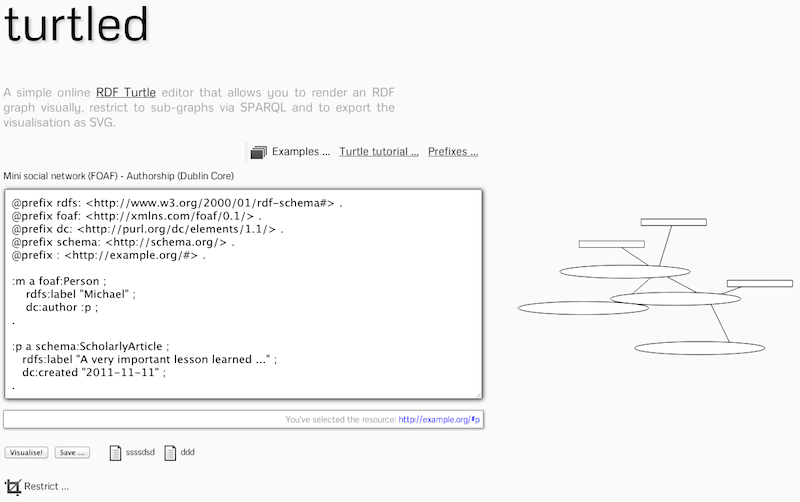
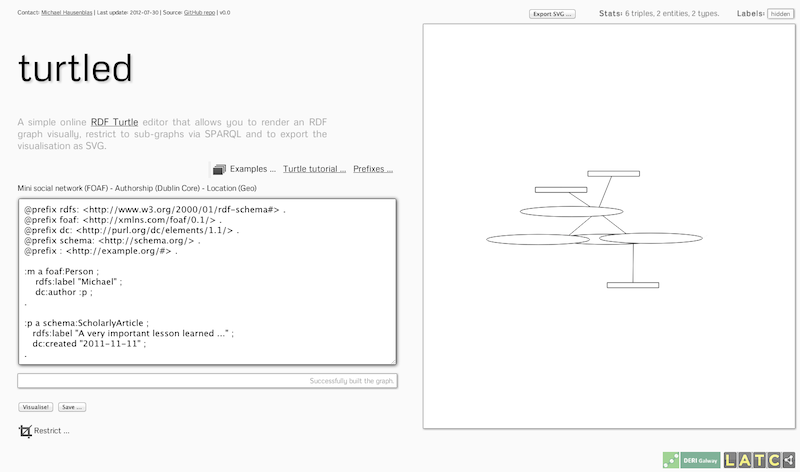
added graph stats and one more example

diff --git a/turtled.js b/turtled.js
@@ -4,36 +4,9 @@ var turtledstorage = window.localStorage;
 var MAX_ENTRIES = 10;
 var entrycntr = 0;
 var labelsvis = false;
-var gstats = { numtriples : 0 ,  numclasses : 0 };
+var gstats = { numtriples : 0, numentities : 0,  numclasses : 0 };
 
-var ex1 = '@prefix rdfs: <http://www.w3.org/2000/01/rdf-schema#> .\n\
-@prefix foaf: <http://xmlns.com/foaf/0.1/> .\n\
-@prefix : <http://example.org/#> .\n\
-\n\
-:m a foaf:Person ;\n\
-    rdfs:label "Michael" ;\n\
-    foaf:knows :r ;\n\
-.\n\
-\n\
-:r a foaf:Person ;\n\
-   rdfs:label "Richard" ;\n\
-.';
 
-var ex2 = '@prefix rdfs: <http://www.w3.org/2000/01/rdf-schema#> .\n\
-@prefix foaf: <http://xmlns.com/foaf/0.1/> .\n\
-@prefix dc: <http://purl.org/dc/elements/1.1/> .\n\
-@prefix schema: <http://schema.org/> .\n\
-@prefix : <http://example.org/#> .\n\
-\n\
-:m a foaf:Person ;\n\
-    rdfs:label "Michael" ;\n\
-    dc:author :p ;\n\
-.\n\
-\n\
-:p a schema:ScholarlyArticle ;\n\
-   rdfs:label "A very important lesson learned ..." ;\n\
-   dc:created "2011-11-11" ;\n\
-.';
 
 
 // node.data holds custom object passed to graph.addNode();
@@ -100,7 +73,7 @@ $(document).ready(function(){
 		$("#out").css('width', ($(window).width() - $("#main").width() - 100) * 0.95 );
 		$("#out").css('height', $(window).height() * 0.85 );
 	});
-	
+		
 	// list saved entries
 	buildEntryList();
 
@@ -129,9 +102,7 @@ $(document).ready(function(){
 					$("#out").show("");
 					renderGraph("out");
 					$("#out-support").show();
-					// @@TODO: count distinct subjects, classes, properties
-					$("#stats").html("<strong>Stats:</strong> Triples: " + gstats.numtriples );
-					
+					showStats(store);
 				}
 				else {
 					status("<span style='color:red'>Invalid RDF Turtle :(</span>" );
@@ -155,18 +126,17 @@ $(document).ready(function(){
 		});
 		$("#ex1").click(function(event){ $("#tinput").val(ex1); });
 		$("#ex2").click(function(event){ $("#tinput").val(ex2); });
+		$("#ex3").click(function(event){ $("#tinput").val(ex3); });
 
 		// handling output support (node/link lables rendering, SVG export)
 		$("#labels").click(function(event){
 			$("#out").html("");
 			if(labelsvis){
-				$("#labels").html("show labels");
-				$("#labels").css("border-left", "0px solid #fafafa");
+				$("#labels").html("hidden");
 				labelsvis = false;
 			}
 			else {
-				$("#labels").html("hide labels");
-				$("#labels").css("border-left", "5px solid #f0f0f0");
+				$("#labels").html("visible");
 				labelsvis = true;
 			}
 			renderGraph("out");
@@ -312,6 +282,23 @@ function renderGraph(containerID){
 	renderer.run();
 }
 
+function showStats(store){
+	// @@TODO: count distinct subjects, classes, properties
+		
+	$("#stats").html("<strong>Stats:</strong> " + gstats.numtriples + " triple(s)");
+
+	store.execute("SELECT (COUNT(DISTINCT ?class) AS ?classcount) { ?s a ?class . }", function(success, results){
+		gstats.numclasses = results[0].classcount.value;
+		store.execute("SELECT (COUNT(DISTINCT ?s) AS ?subjectcount) { ?s ?p ?o. }", function(success, results){
+			gstats.numentities = results[0].subjectcount.value;
+			$("#stats").html("<strong>Stats:</strong> " +
+							gstats.numtriples  + ( gstats.numtriples > 1 ? " triples, " : " triple, " ) +
+							gstats.numentities + ( gstats.numentities > 1 ? " entities, " : " entity, " ) +
+							gstats.numclasses + ( gstats.numclasses > 1 ? " types. " : " type. " )  
+			);
+		});
+	});
+}
 
 // low-level storage API
 

diff --git a/index.html b/index.html
@@ -27,8 +27,9 @@
 			</div>
 			
 			<div id="examples-sel">
-				<span id="ex1">Mini social network (FOAF) </span> - 
-				<span id="ex2">Authorship (Dublin Core) </span>
+				<span id="ex1" title="Two people with foaf:knows ...">Mini social network (FOAF) </span> - 
+				<span id="ex2" title="A person who is the dc:author of an article ...">Authorship (Dublin Core) </span> - 
+				<span id="ex3" title="A person's location ...">Location (Geo) </span>
 			</div>
 			
 			<div id="currententry"></div>
@@ -70,8 +71,8 @@ WHERE {
 	</div>
 	<div id="out-support">
 		<button id="svgexport">Export SVG ...</button>
-		<span id="stats"></span>
-		<span class="ctrl-item" id="labels" title="click to show/hide labels">show labels</span>
+		<span id="stats" title="Overall RDF Turtle statistics"></span>
+		<strong>Labels:</strong> <span class="ctrl-item" id="labels" title="click to show/hide labels">hidden</span>
 	</div>
 	<div id="out"></div>
 	<div id="ack">
@@ -82,7 +83,8 @@ WHERE {
 	<script src="jquery-1.7.2.min.js"></script>
 	<script src="vivagraph.min.js"></script>
 	<script src="rdf_store_min.js"></script>
-	<script src="json2.js"></script>	
+	<script src="json2.js"></script>
+	<script src="examples.js"></script>
 	<script src="turtled.js"></script>
 </body>
 </html>

diff --git a/examples.js b/examples.js
@@ -1,0 +1,39 @@
+var ex1 = '@prefix rdfs: <http://www.w3.org/2000/01/rdf-schema#> .\n\
+@prefix foaf: <http://xmlns.com/foaf/0.1/> .\n\
+@prefix : <http://example.org/#> .\n\
+\n\
+:m a foaf:Person ;\n\
+    rdfs:label "Michael" ;\n\
+    foaf:knows :r ;\n\
+.\n\
+\n\
+:r a foaf:Person ;\n\
+   rdfs:label "Richard" ;\n\
+.';
+
+var ex2 = '@prefix rdfs: <http://www.w3.org/2000/01/rdf-schema#> .\n\
+@prefix foaf: <http://xmlns.com/foaf/0.1/> .\n\
+@prefix dc: <http://purl.org/dc/elements/1.1/> .\n\
+@prefix schema: <http://schema.org/> .\n\
+@prefix : <http://example.org/#> .\n\
+\n\
+:m a foaf:Person ;\n\
+    rdfs:label "Michael" ;\n\
+    dc:author :p ;\n\
+.\n\
+\n\
+:p a schema:ScholarlyArticle ;\n\
+   rdfs:label "A very important lesson learned ..." ;\n\
+   dc:created "2011-11-11" ;\n\
+.';
+
+var ex3 = '@prefix foaf: <http://xmlns.com/foaf/0.1/> .\n\
+@prefix geo: <http://www.w3.org/2003/01/geo/wgs84_pos#> .\n\
+@prefix : <http://example.org/#> .\n\
+\n\
+:i foaf:based_near <http://dbpedia.org/resource/Galway>,\n\
+                   _:bn0 .\n\
+\n\
+_:bn0 geo:lat "53.2719444" ;\n\
+      geo:long "-9.0488889" ;\n\
+.';

diff --git a/style.css b/style.css
@@ -62,13 +62,18 @@ img {
 }
 
 #stats {
-	padding: 0 10px 0 10px;
-	font-size: 60%;
-	color: #606060;
+	padding: 0 30px 0 40px;
 }
 
 #labels {
-
+	padding: 1px 6px;
+	border-top: 1px solid #909090;
+	border-right: 1px solid #909090;
+	border-left: 1px solid #909090;
+	-moz-box-shadow: 1px 1px 5px #909090;
+	-webkit-box-shadow:1px 1px 5px #909090;
+	box-shadow: 1px 1px 5px #909090;
+	color: #303030;
 }
 
 #restrict {
@@ -143,10 +148,12 @@ img {
 #out-support {
 	text-align: right;
 	position: fixed;
-	right: 5px;
+	right: 8px;
 	top: 20px;
 	display: none;
 	padding: 0;
+	font-size: 70%;
+	color: #606060;
 }
 
 #svgout {

diff --git a/README.md b/README.md
@@ -15,7 +15,6 @@ In order to deploy it, simply copy all files into a directory. An example deploy
 
 ## Open Issues
 
-* show graph stats (triples, etc)
 * labels for links
 * arrows, ltr layout
 
